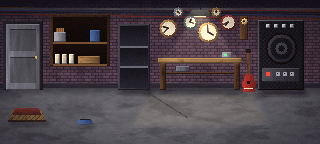
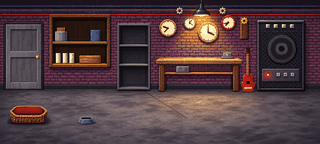
Labor 1986: Hintergrund des Nutzers, neue Klickflächen und Sprüche

diff --git a/src/game/rooms/docs_labor.ts b/src/game/rooms/docs_labor.ts
@@ -109,9 +109,17 @@ export const docsLabor: RoomDef = {
         ],
         hotspots: [
           {
+            id: 'rohre',
+            name: 'hotspot.rohre',
+            area: rect(0, 4, 320, 10),
+            walkTo: [160, 96],
+            face: 'hinten',
+            comments: { schauan: 'say.prolog.labor_rohre' },
+          },
+          {
             id: 'tuer',
             name: 'hotspot.tuer_draussen',
-            area: rect(4, 22, 38, 68),
+            area: rect(4, 22, 39, 68),
             walkTo: [24, 96],
             face: 'hinten',
             comments: { schauan: 'say.prolog.labor_tuer' },
@@ -139,13 +147,45 @@ export const docsLabor: RoomDef = {
             comments: { schauan: 'say.prolog.labor_regal', nimm: 'say.prolog.labor_regal_nimm' },
           },
           {
+            id: 'buechse',
+            name: 'hotspot.buechse',
+            area: rect(55, 27, 13, 15),
+            walkTo: [62, 96],
+            face: 'hinten',
+            comments: { schauan: 'say.prolog.labor_buechse' },
+          },
+          {
+            id: 'blaue_dose',
+            name: 'hotspot.blaue_dose',
+            area: rect(90, 29, 11, 13),
+            walkTo: [95, 96],
+            face: 'hinten',
+            comments: { schauan: 'say.prolog.labor_blaue_dose' },
+          },
+          {
+            id: 'konserven',
+            name: 'hotspot.konserven',
+            area: rect(55, 52, 20, 12),
+            walkTo: [65, 96],
+            face: 'hinten',
+            comments: { schauan: 'say.prolog.labor_konserven' },
+          },
+          {
+            id: 'holzkiste',
+            name: 'hotspot.holzkiste',
+            area: rect(79, 54, 22, 10),
+            walkTo: [90, 96],
+            face: 'hinten',
+            comments: { schauan: 'say.prolog.labor_holzkiste' },
+          },
+          {
             id: 'mr_fusion',
             name: 'item.mr_fusion.name',
-            area: rect(70, 24, 16, 20),
+            area: rect(70, 23, 16, 20),
             walkTo: [80, 96],
             face: 'hinten',
             visible: (s) => !s.flags.mr_fusion_genommen,
-            sprite: { key: 'backgrounds/sprites/mr_fusion.png', x: 72, y: 26 },
+            sprite: { key: 'backgrounds/sprites/mr_fusion.png', x: 72, y: 25 },
             comments: { schauan: 'say.prolog.labor_fusion_schau' },
             verbs: {
               nimm: async (g) => {
@@ -184,11 +224,11 @@ export const docsLabor: RoomDef = {
           {
             id: 'hundefutter',
             name: 'item.hundefutter.name',
-            area: rect(126, 52, 16, 14),
+            area: rect(126, 51, 16, 14),
             walkTo: [134, 96],
             face: 'hinten',
             visible: (s) => !!s.flags.labor_schrank_offen && !s.flags.hundefutter_genommen,
-            sprite: { key: 'backgrounds/sprites/hundefutter.png', x: 128, y: 54 },
+            sprite: { key: 'backgrounds/sprites/hundefutter.png', x: 128, y: 53 },
             comments: { schauan: 'say.prolog.labor_futter_schau' },
             verbs: {
               nimm: pickup((g) => {
@@ -200,7 +240,7 @@ export const docsLabor: RoomDef = {
           {
             id: 'uhren',
             name: 'hotspot.uhren',
-            area: rect(158, 12, 84, 34),
+            area: rect(158, 15, 77, 29),
             walkTo: [200, 96],
             face: 'hinten',
             comments: { schauan: 'say.prolog.labor_uhren', nimm: 'say.prolog.labor_uhren_nimm' },
@@ -208,10 +248,50 @@ export const docsLabor: RoomDef = {
           {
             id: 'werkbank',
             name: 'hotspot.werkbank',
-            area: rect(158, 48, 84, 42),
+            area: rect(156, 55, 85, 36),
             walkTo: [200, 96],
             face: 'hinten',
             comments: { schauan: 'say.prolog.labor_werkbank' },
+          },
+          {
+            id: 'deckenlampe',
+            name: 'hotspot.deckenlampe',
+            area: rect(193, 0, 18, 17),
+            walkTo: [202, 96],
+            face: 'hinten',
+            comments: { schauan: 'say.prolog.labor_deckenlampe' },
+          },
+          {
+            id: 'zahnrad_links',
+            name: 'hotspot.zahnrad',
+            area: rect(175, 6, 9, 9),
+            walkTo: [180, 96],
+            face: 'hinten',
+            comments: { schauan: 'say.prolog.labor_zahnrad' },
+          },
+          {
+            id: 'zahnrad_rechts',
+            name: 'hotspot.zahnrad',
+            area: rect(218, 6, 9, 9),
+            walkTo: [222, 96],
+            face: 'hinten',
+            comments: { schauan: 'say.prolog.labor_zahnrad' },
+          },
+          {
+            id: 'messgeraet',
+            name: 'hotspot.messgeraet',
+            area: rect(221, 52, 14, 8),
+            walkTo: [228, 96],
+            face: 'hinten',
+            comments: { schauan: 'say.prolog.labor_messgeraet' },
+          },
+          {
+            id: 'blechkiste',
+            name: 'hotspot.blechkiste',
+            area: rect(175, 65, 15, 8),
+            walkTo: [182, 96],
+            face: 'hinten',
+            comments: { schauan: 'say.prolog.labor_blechkiste' },
           },
           {
             id: 'docs_brief',
@@ -252,7 +332,7 @@ export const docsLabor: RoomDef = {
           {
             id: 'riesenverstaerker',
             name: 'hotspot.riesenverstaerker',
-            area: rect(258, 20, 46, 70),
+            area: rect(257, 20, 48, 71),
             walkTo: [280, 96],
             face: 'hinten',
             comments: { schauan: 'say.prolog.labor_verstaerker', nimm: 'say.prolog.labor_verstaerker_nimm' },
@@ -309,11 +389,11 @@ export const docsLabor: RoomDef = {
           {
             id: 'brecheisen',
             name: 'item.brecheisen.name',
-            area: rect(42, 58, 8, 30),
+            area: rect(42, 60, 8, 30),
             walkTo: [46, 96],
             face: 'hinten',
             visible: (s) => s.chapter >= 3 && !s.flags.brecheisen_genommen,
-            sprite: { key: 'backgrounds/sprites/brecheisen.png', x: 43, y: 59 },
+            sprite: { key: 'backgrounds/sprites/brecheisen.png', x: 43, y: 61 },
             comments: { schauan: 'say.k3.labor_brecheisen' },
             verbs: {
               nimm: pickup((g) => {
@@ -325,14 +405,14 @@ export const docsLabor: RoomDef = {
           {
             id: 'sicherungskasten',
             name: 'hotspot.sicherungskasten',
-            area: rect(236, 12, 22, 30),
+            area: rect(235, 14, 22, 30),
             walkTo: [248, 96],
             face: 'hinten',
             defaultVerb: 'oeffne',
             sprite: {
               key: 'backgrounds/sprites/sicherungskasten.png',
-              x: 236,
-              y: 12,
+              x: 235,
+              y: 14,
               when: (s) => !s.flags.sicherungskasten_offen,
             },
             comments: { schauan: 'say.k3.labor_kasten' },
@@ -351,11 +431,11 @@ export const docsLabor: RoomDef = {
           {
             id: 'kasten_innen',
             name: 'hotspot.sicherungskasten',
-            area: rect(236, 12, 22, 30),
+            area: rect(235, 14, 22, 30),
             walkTo: [248, 96],
             face: 'hinten',
             visible: (s) => !!s.flags.sicherungskasten_offen,
-            sprite: { key: 'backgrounds/sprites/sicherungskasten_offen.png', x: 236, y: 12 },
+            sprite: { key: 'backgrounds/sprites/sicherungskasten_offen.png', x: 235, y: 14 },
             comments: { schauan: 'say.k3.labor_kasten_innen' },
             verbs: {
               schliesse: async (g) => {
@@ -366,11 +446,11 @@ export const docsLabor: RoomDef = {
           {
             id: 'sicherung',
             name: 'item.sicherung.name',
-            area: rect(238, 14, 14, 8),
+            area: rect(237, 16, 14, 8),
             walkTo: [248, 96],
             face: 'hinten',
             visible: (s) => !!s.flags.sicherungskasten_offen && !s.flags.sicherung_genommen,
-            sprite: { key: 'backgrounds/sprites/sicherung.png', x: 240, y: 15 },
+            sprite: { key: 'backgrounds/sprites/sicherung.png', x: 239, y: 17 },
             comments: { schauan: 'say.k3.labor_sicherung_schau' },
             verbs: {
               nimm: async (g) => {

diff --git a/src/game/rooms/leben.ts b/src/game/rooms/leben.ts
@@ -180,13 +180,12 @@ const LEBEN: Record<string, Leben> = {
     ambience: 'amb_labor',
     fidget: { einstein: ['talk', 'blick'] },
     effects: [
-      zahnrad('zahn_klein_grau', 178, 12.5, 5, 6),
-      zahnrad('zahn_klein_gold', 216, 12.5, 5, 8),
-      zahnrad('zahn_klein_gold', 244, 21, 5, 7),
-      lampe(199, 18, 24, 0xffe8b0, 0.22, 0.5),
-      blinken(224, 53, 6, 3, 0x40ff80, 1.1),
-      blinken(266, 72, 4, 4, 0xff3030, 0.5),
-      { type: 'particles', area: [224, 49, 8, 2], colors: [0x80ffb0, 0xffffff], rate: 0.8, life: [250, 500], vx: [-14, 14], vy: [-16, 4] },
+      zahnrad('zahn_klein_grau', 179.5, 10.5, 5, 6),
+      zahnrad('zahn_klein_gold', 222.5, 10.5, 5, 8),
+      lampe(202, 20, 24, 0xffe8b0, 0.22, 0.5),
+      blinken(226, 53, 3, 2, 0x40ff80, 1.1),
+      blinken(266, 73, 4, 4, 0xff3030, 0.5),
+      { type: 'particles', area: [224, 50, 8, 2], colors: [0x80ffb0, 0xffffff], rate: 0.8, life: [250, 500], vx: [-14, 14], vy: [-16, 4] },
     ],
   },
   stadtplan_1986: { ambience: 'amb_stadt' },

diff --git a/tools/paint/build.ts b/tools/paint/build.ts
@@ -107,7 +107,7 @@ const UI: Record<string, () => Picture> = {
 };
 
 /** Vom Nutzer gezeichnete Bilder: Sie werden nie übermalt, auch nicht mit --force oder Namensfilter. */
-const EIGENE_BILDER = new Set(['titel', 'martys_zimmer_1986', 'kueche_1986', 'arbeitszimmer_1986', 'vorgarten_1986', 'vorgarten_1986_tannenburg', 'veranda_1986']);
+const EIGENE_BILDER = new Set(['titel', 'martys_zimmer_1986', 'kueche_1986', 'arbeitszimmer_1986', 'vorgarten_1986', 'vorgarten_1986_tannenburg', 'veranda_1986', 'docs_labor_1986']);
 
 const args = process.argv.slice(2);
 const force = args.includes('--force');
